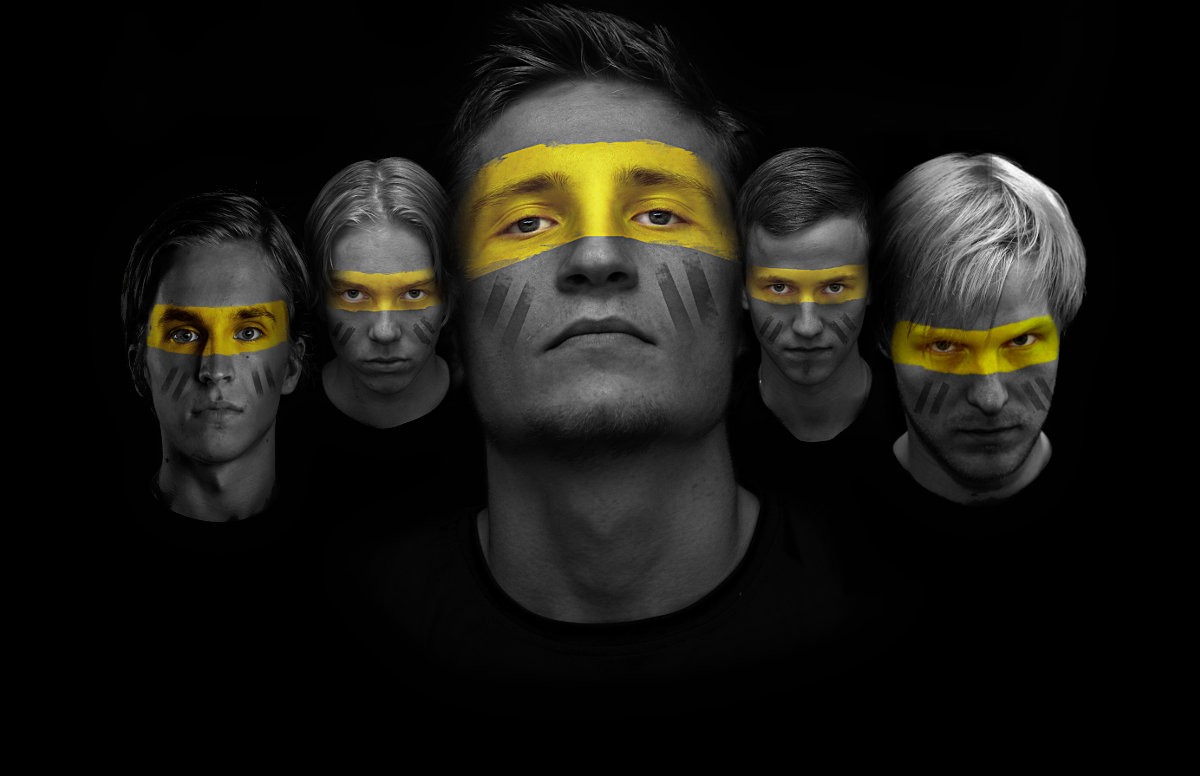
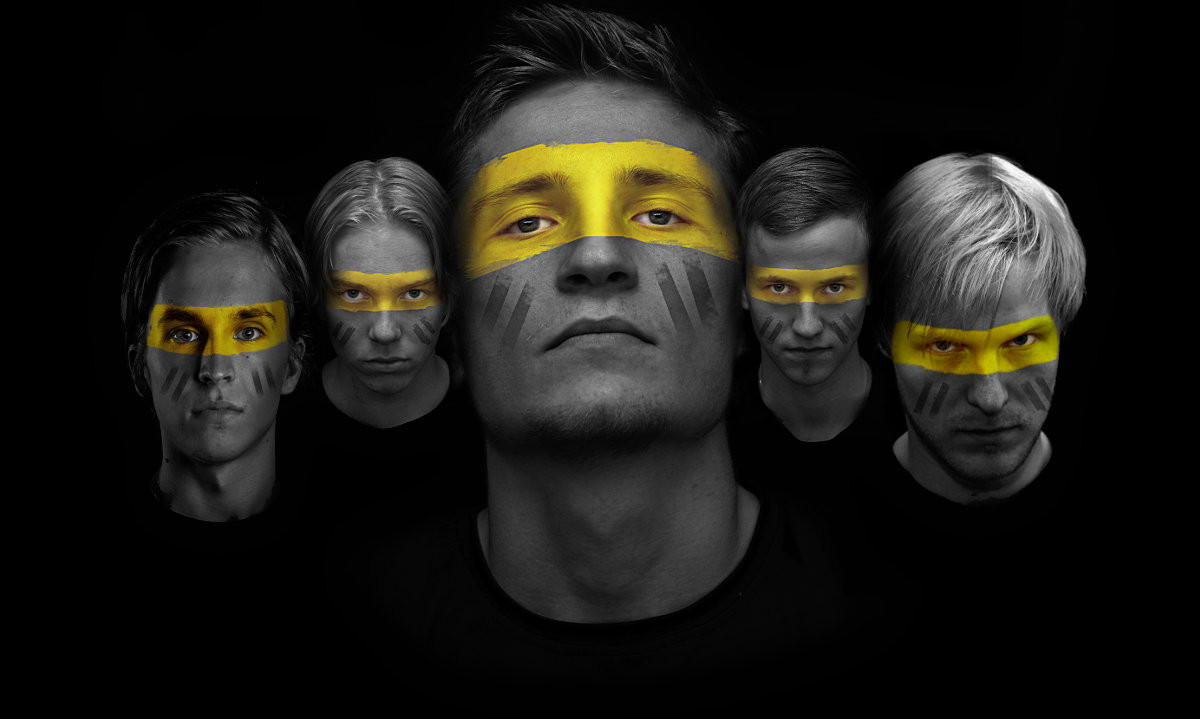
cropped the indian faces a bit and adjusted the heights a bit

Changed region(s): [[0.0925, 0.0306, 0.925, 0.8873]]

diff --git a/indians/static/scss/components/header.scss b/indians/static/scss/components/header.scss
@@ -23,16 +23,21 @@
         opacity:1;
         transition: opacity 2.5s ease-in-out
       }
+
+      &.representative-team {
+        margin-top: 10px;
+      }
+
     }
 
     .title {
-      position: relative;
+      position: absolute;
       z-index: 5;
       text-align: center;
       margin: 0;
       padding: 0;
       left: 0;
-      top: 46vw;
+      top: 40vw;
       width: 100%;
       display: block;
       min-height: auto;
@@ -80,11 +85,15 @@
         }
       }
 
-      @media screen and (min-width : 600px) {
+      @media screen and (min-width : 781px) {
+        top: 34vw;
+        .slogan {
+          padding-top: 20px;
+          padding-bottom: 20px;
+        }
       }
-
       @media screen and (min-width : 1281px) {
-        top: 520px;
+        top: 440px;
         h1 {
           font-size: 86px;
         }

diff --git a/indians/static/scss/components/representative-team.scss b/indians/static/scss/components/representative-team.scss
@@ -1,4 +1,5 @@
 .representative_page {
+
   section.in-focus {
     .lift-container,
     .news-container .row-news .news-item,
@@ -10,8 +11,8 @@
     .team-container {
       padding: 40px $base_padding 120px;
       .repr-body {
-        grid-column-start: 1;
-        grid-column-end: 13;
+        grid-column-start: 2;
+        grid-column-end: 12;
 
         .rich-text > p > img {
           opacity: .4;

diff --git a/indians/templates/header.html b/indians/templates/header.html
@@ -27,7 +27,7 @@
   </div>
 
   {% if request.path|startswith:'/miehet-edustus' %}
-    <img class="main-img" src="{% static "images/faces_1200x.jpg" %}">
+    <img class="main-img representative-team" src="{% static "images/faces_1200x.jpg" %}">
   {% else %}
     <img class="main-img" src="{% static "images/faces_indians_1200x.jpg" %}">
   {% endif %}
